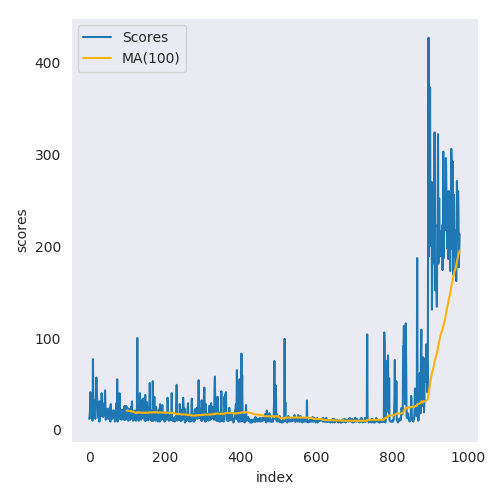
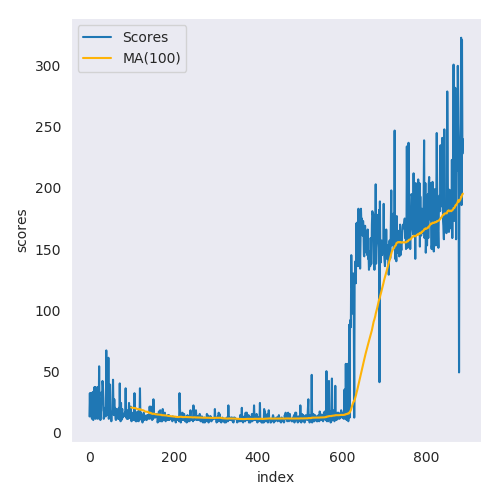
feat: optimize ways of defining dqn/double_dqn; optimize argparse

diff --git a/01-classic-control/CartPole-v1.py b/01-classic-control/CartPole-v1.py
@@ -12,30 +12,37 @@ from utils.utils import str2bool, plot_scores
 from agents.dqn import DQNAgent
 
 PARSER = argparse.ArgumentParser(description=None)
-PARSER.add_argument('-dou_dqn', '--double_dqn', default=False, type=str2bool, 
-                    help="specifying if using double dqn")
-PARSER.add_argument('-due_dqn', '--dueling_dqn', default=False, type=str2bool, 
-                    help="specifying if using dueling dqn")
-PARSER.add_argument('-fdir', '--figure_dir', default="figure",
-                    help="directory storing figures")
-PARSER.add_argument('-mdir', '--model_dir', default='model',
-                    help="directory storing models")
+# choosing algorithm
+PARSER.add_argument('-dou_dqn', '--double_dqn', default=False, type=str2bool, help="if using double dqn")
+PARSER.add_argument('-due_dqn', '--dueling_dqn', default=True, type=str2bool, help="if using dueling dqn")
+
+# output path
+PARSER.add_argument('-fdir', '--figure_dir', default="figure", help="directory storing figures")
+PARSER.add_argument('-mdir', '--model_dir', default='model', help="directory storing models")
+PARSER.add_argument('-f', '--flag', default='dueling_dqn', type=str, help="saving name")
+
+# figure setting
 PARSER.add_argument('-ws', '--window_size', default=100, type=int,
                     help="moving average window for plotting")
+# replay buffer
 PARSER.add_argument('-bus', '--buffer_size', default=int(1e5), type=int,
                     help='buffer size for experience replay buffer')
-PARSER.add_argument('-bas', '--batch_size', default=256, type=int,
-                    help='batch size training')
-PARSER.add_argument('-gamma', '--gamma', default=0.99, type=float,
-                    help='discount factor')
-PARSER.add_argument('-tau', '--tau', default=1e-3, type=float,
-                    help='factor for soft update of target parameters')
-PARSER.add_argument('-lr', '--lr', default=5e-4, type=float,
-                    help='learning rate')
-PARSER.add_argument('-uf', '--update_frequency', default=4, type=int,
-                    help='how often to update the network')
+# RL hyperparameters
+PARSER.add_argument('-gamma', '--gamma', default=0.99, type=float, help='discount factor')
+PARSER.add_argument('-tau', '--tau', default=1e-3, type=float, help='factor for soft update of target parameters')
+PARSER.add_argument('-lr', '--lr', default=5e-4, type=float, help='learning rate')
+PARSER.add_argument('-uf', '--update_frequency', default=4, type=int, help='how often to update the network')
+
+# training hyperparameters
+PARSER.add_argument('-bas', '--batch_size', default=256, type=int,help='batch size training')
 PARSER.add_argument('-s', '--seed', default=1, type=int, help="seeds")
-PARSER.add_argument('-f', '--flag', default='dqn', type=str, help="saving name")
+PARSER.add_argument('-maxt', '--maxt', default=1000, type=int, help="maximum episode length")
+PARSER.add_argument('-n', '--n_episode', default=2000, type=int, help="maximum numbers of episode")
+PARSER.add_argument('-e0', '--epi_start', default=1., type=float, help='initial epsilon')
+PARSER.add_argument('-eT', '--epi_end', default=0.01, type=float, help='minimum epsilon')
+PARSER.add_argument('-e_decay', '--epi_decay', default=0.995, type=float, help='epsilon decay rate')
+PARSER.add_argument('-b', '--baseline', default=195, type=float, help='stopping baseline')
+
 ARGS = PARSER.parse_args()
 print(ARGS)
 
@@ -58,11 +65,11 @@ if __name__ == "__main__":
                      args=ARGS,
                      device=device)
     
-    n_episodes=2000
-    max_t=10000
-    eps_start=1
-    eps_end=0.01
-    eps_decay=0.997
+    n_episodes = ARGS.n_episode
+    max_t = ARGS.maxt
+    eps_start = ARGS.epi_start
+    eps_end = ARGS.epi_end
+    eps_decay = ARGS.epi_decay
     
     scores = []                        # list containing scores from each episode
     scores_window = deque(maxlen=100)  # last 100 scores
@@ -87,7 +94,7 @@ if __name__ == "__main__":
         print('\rEpisode {}\tAverage Score: {:.2f}'.format(i_episode, np.mean(scores_window)), end="")
         if i_episode % 100 == 0:
             print('\rEpisode {}\tAverage Score: {:.2f}'.format(i_episode, np.mean(scores_window)))
-        if np.mean(scores_window)>=195.0:
+        if np.mean(scores_window) >= ARGS.baseline:
             print('\nEnvironment solved in {:d} episodes!\tAverage Score: {:.2f}'.format(i_episode-100, np.mean(scores_window)))
 
             if ARGS.double_dqn:
